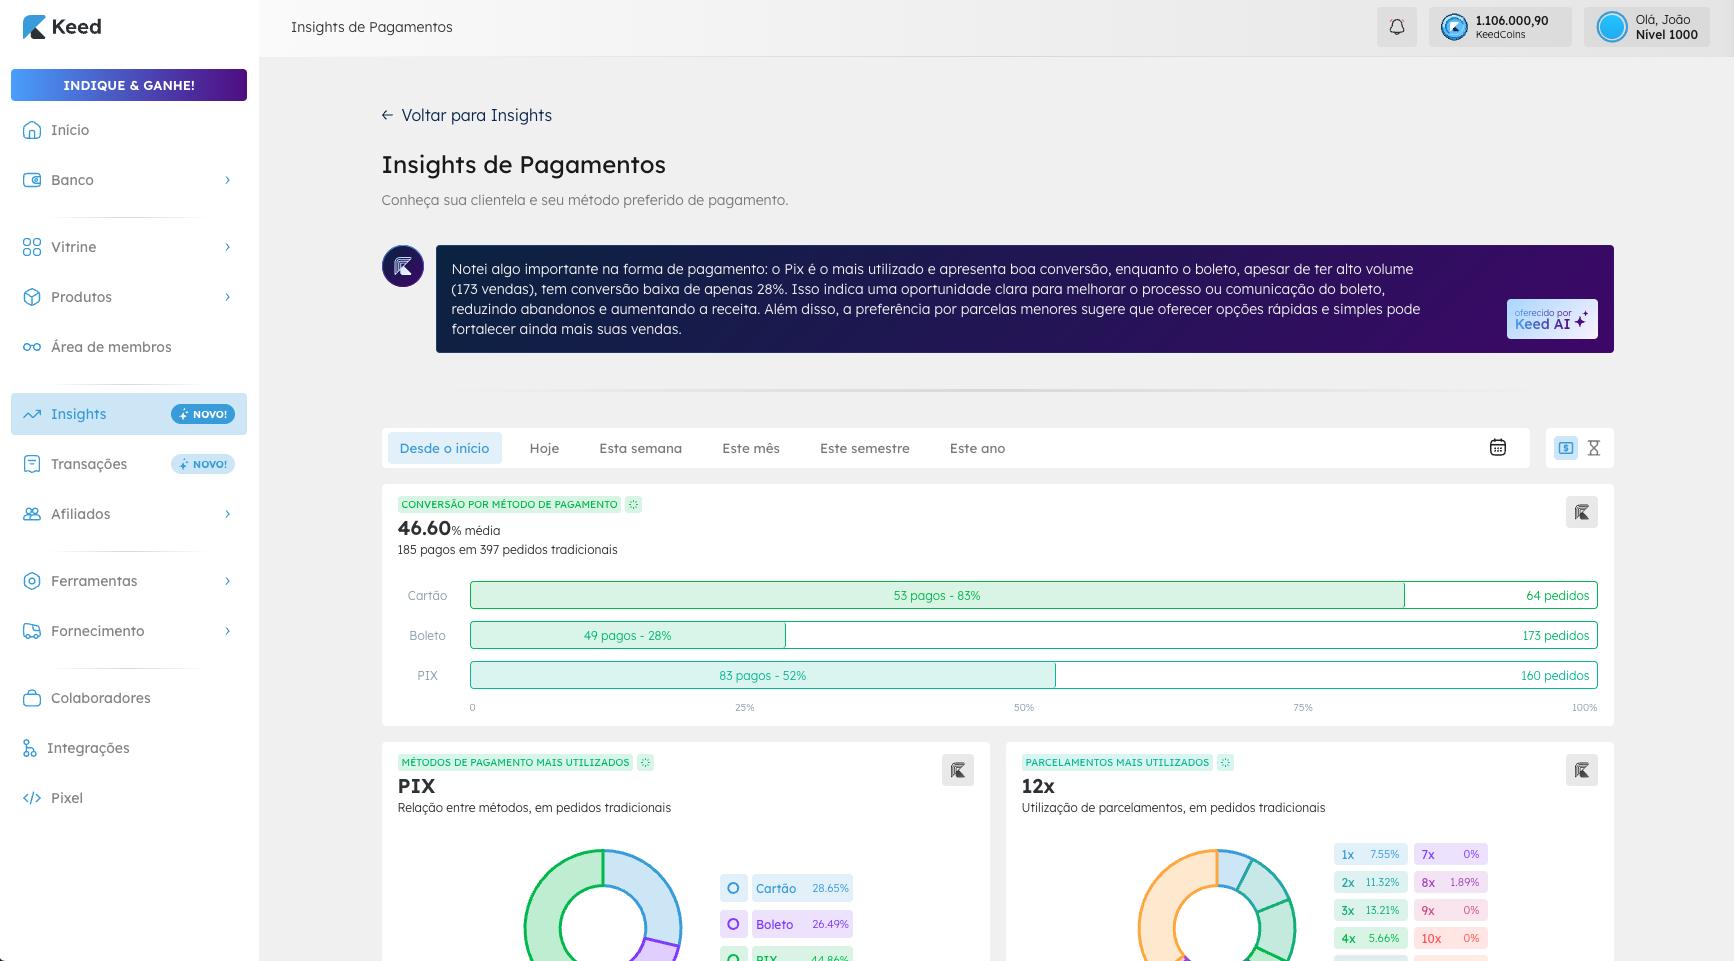
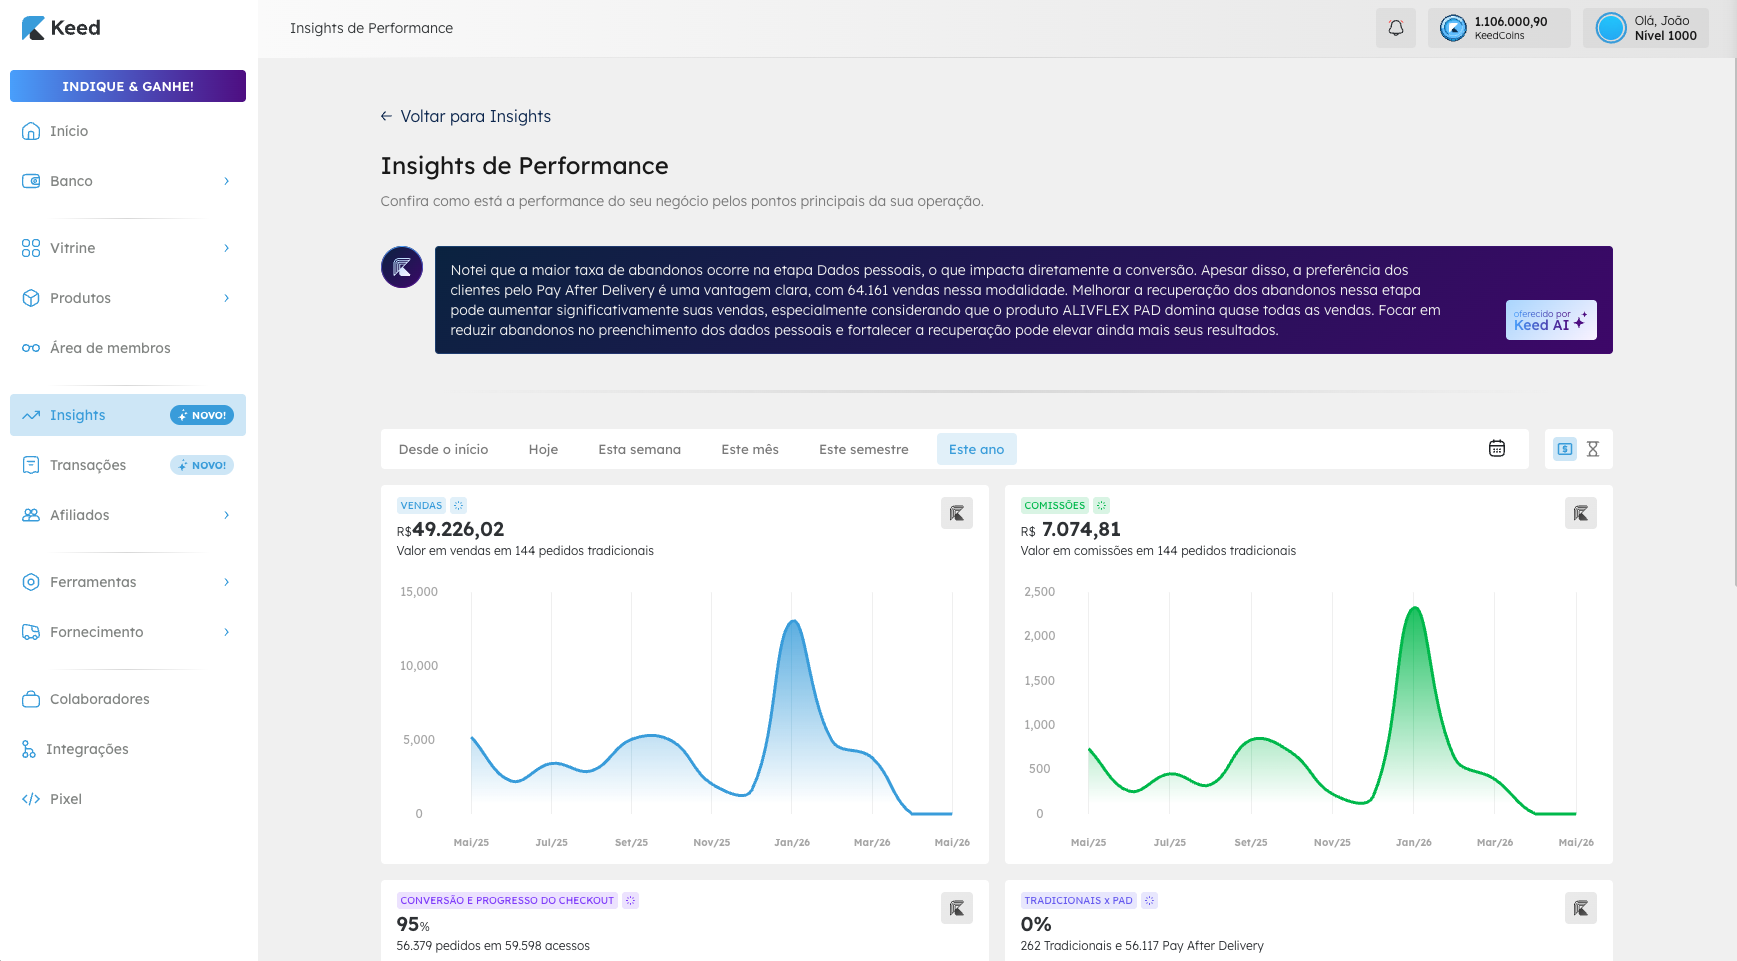
update keedpay gallery images and captions, fill gallery images

diff --git a/src/i18n/translations.ts b/src/i18n/translations.ts
@@ -161,10 +161,11 @@ export const translations: Record<Language, TranslationDictionary> = {
       "keed.platform.description":
         "A plataforma web do KeedPay é onde o produtor gerencia todo o negócio: cadastro de produtos digitais e físicos, checkout customizável, área de membros para cursos, sistema de afiliados, gestão pós-venda e insights de performance e pagamentos com apoio de IA. Uma interface densa em informação, desenhada para manter a clareza mesmo com muitos módulos. Na plataforma web, atuei tanto no desenvolvimento front-end quanto no back-end.",
       "keed.platform.gallery.1":
-        "Tela de Insights de Performance — valores transacionados, desempenho dos produtos e recomendações da IA para melhorar os resultados",
+        "Tela de login do KeedPay, com uma animação em shader compondo o plano de fundo — o primeiro contato do produtor com a plataforma.",
       "keed.platform.gallery.2":
+        "Tela de Insights de Performance — valores transacionados, desempenho dos produtos e recomendações da IA para melhorar os resultados",
+      "keed.platform.gallery.3":
         "Tela de Insights de Pagamentos — análise de conversão e recomendações da IA sobre o fluxo de pagamento",
-      "keed.platform.gallery.3": "Tela de checkout gerada via payment link",
       "keed.mobile.name": "Keed Mobile",
       "keed.mobile.description":
         "O aplicativo do KeedPay é a versão mobile da plataforma, voltada ao acompanhamento da operação: vendas e comissões em tempo real, notificações de pagamentos e uma visão rápida do desempenho dos produtos. As telas seguem o padrão visual da plataforma web, adaptadas ao uso em celular.",
@@ -366,10 +367,11 @@ export const translations: Record<Language, TranslationDictionary> = {
       "keed.platform.description":
         "The KeedPay web platform is where producers manage the whole business: registering digital and physical products, a customizable checkout, a members area for courses, an affiliate system, post-sale management, and performance and payment insights backed by AI. An information-dense interface, designed to stay clear even with many modules. On the web platform, I worked on both front-end and back-end development.",
       "keed.platform.gallery.1":
-        "Performance Insights screen — transacted values, product performance, and AI recommendations to improve results",
+        "KeedPay login screen, with a shader animation composing the background — the producer's first contact with the platform.",
       "keed.platform.gallery.2":
+        "Performance Insights screen — transacted values, product performance, and AI recommendations to improve results",
+      "keed.platform.gallery.3":
         "Payment Insights screen — conversion analysis and AI recommendations on the payment flow",
-      "keed.platform.gallery.3": "Checkout screen generated from a payment link",
       "keed.mobile.name": "Keed Mobile",
       "keed.mobile.description":
         "The KeedPay app is the mobile version of the platform, focused on tracking the operation: real-time sales and commissions, payment notifications, and a quick view of product performance. The screens follow the web platform's visual standard, adapted for phone use.",

diff --git a/src/components/carousel/styles.ts b/src/components/carousel/styles.ts
@@ -107,7 +107,8 @@ export const Slide = styled(motion.div)<SlideProps>`
 export const SlideImg = styled.img`
   width: 100%;
   height: 100%;
-  object-fit: contain;
+  object-fit: cover;
+  object-position: top;
   display: block;
 `
 

diff --git a/src/pages/project-detail/sections/keed-split-layout-styles.ts b/src/pages/project-detail/sections/keed-split-layout-styles.ts
@@ -164,7 +164,8 @@ export const MobileImageWrapper = styled.div<MobileImageWrapperProps>`
 export const MobileImg = styled(motion.img)`
   width: 100%;
   height: 100%;
-  object-fit: contain;
+  object-fit: cover;
+  object-position: top;
 `
 
 export const MobilePlaceholder = styled.div`